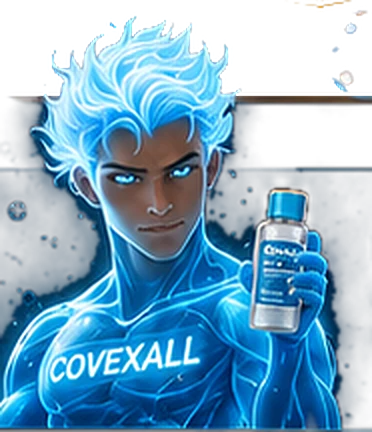
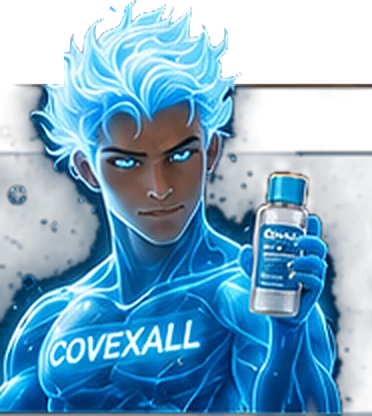
Centered sticky nav on every page, hero no longer zooms on wide screens, clean Cove cutout in newsletter bands, footer form stays on one row

diff --git a/site.css b/site.css
@@ -74,7 +74,7 @@ main { display: block; }
 .nav-wrap { position: sticky; top: 0; z-index: 50; }
 .nav { display: flex; align-items: center; gap: 24px; height: var(--nav-h); padding: 0 40px; background: linear-gradient(90deg, #050B14, #0B1622 55%, #0A1524); color: #fff; box-shadow: 0 10px 30px rgba(0,0,0,.5); }
 .logo { font-family: var(--font-head); font-weight: 900; font-size: 26px; letter-spacing: .05em; color: #fff; text-shadow: 0 0 16px rgba(34,211,238,.9), 0 0 4px rgba(255,255,255,.6); }
-.nav-links { display: flex; gap: 0; margin-left: 28px; flex: 1; justify-content: flex-start; }
+.nav-links { display: flex; gap: 0; margin-left: 0; flex: 1; justify-content: center; }
 .nav-links a { display: block; padding: 8px 11px; font-family: var(--font-head); font-weight: 700; font-size: 14px; color: #E6EEFF; position: relative; white-space: nowrap; }
 .nav-links a::after { content: ''; position: absolute; left: 11px; right: 11px; bottom: 0; height: 2.5px; border-radius: 2px; background: var(--cyan); transform: scaleX(0); transition: transform .25s; }
 .nav-links a:hover::after, .nav-links a.active::after { transform: scaleX(1); }
@@ -90,9 +90,7 @@ main { display: block; }
 .nav-toggle.active span:nth-child(1) { transform: translateY(7.5px) rotate(45deg); }
 .nav-toggle.active span:nth-child(2) { opacity: 0; }
 .nav-toggle.active span:nth-child(3) { transform: translateY(-7.5px) rotate(-45deg); }
-/* home: nav floats over the hero as a pill (same as Version A) */
-body.home .nav-wrap { position: absolute; left: 0; right: 0; top: 18px; z-index: 50; padding: 0 60px; }
-body.home .nav { border-radius: 999px; padding: 0 20px 0 30px; height: 60px; border: 1px solid var(--border); box-shadow: 0 14px 34px rgba(0,0,0,.6); }
+/* home: same sticky bar as every other page */
 
 /* =====================================================================
    PAGE HERO (inner pages) — mockup art cropped, text left
@@ -116,9 +114,11 @@ body.home .nav { border-radius: 999px; padding: 0 20px 0 30px; height: 60px; bor
 /* =====================================================================
    HOME
    ===================================================================== */
-.hero { position: relative; overflow: hidden; height: 540px; background: var(--bg-deep) url('assets/hero-scene.webp') center 60%/cover no-repeat; }
+.hero { position: relative; overflow: hidden; height: 540px; background: radial-gradient(60% 90% at 50% 50%, #0C1A2A 0%, var(--bg-deep) 100%); }
+.hero-bg { position: absolute; inset: 0; width: 100%; height: 100%; object-fit: cover; object-position: center 60%; z-index: 0; }
+@media (min-width: 1300px) { .hero-bg { object-fit: contain; object-position: center; -webkit-mask-image: linear-gradient(90deg, transparent 0, #000 10%, #000 90%, transparent 100%); mask-image: linear-gradient(90deg, transparent 0, #000 10%, #000 90%, transparent 100%); } }
 .hero::before { content: ''; position: absolute; inset: 0; background: linear-gradient(90deg, rgba(5,11,20,.85) 0%, rgba(5,11,20,.55) 32%, rgba(5,11,20,0) 55%); }
-.hero-copy { position: relative; z-index: 2; padding: 96px 0 0; max-width: 360px; }
+.hero-copy { position: relative; z-index: 2; padding: 70px 0 0; max-width: 360px; }
 .hero h1 { font-size: clamp(36px, 4.2vw, 52px); font-weight: 900; line-height: 1.02; letter-spacing: -.02em; color: #fff; text-shadow: 0 2px 18px rgba(5,11,20,.9); }
 .hero .lead { margin-top: 12px; font-size: 14px; color: #C9D9E2; max-width: 300px; text-shadow: 0 1px 10px rgba(5,11,20,.95); }
 .hero .hero-actions { margin-top: 16px; }
@@ -203,6 +203,7 @@ body.home .loved-photos .stars, body.home .loved-photos p, body.home .loved-phot
 .mini-form input::placeholder { color: var(--text-muted); }
 .mini-form button { width: 40px; height: 40px; border-radius: 50%; border: 0; background: var(--cove-cyan); color: #04121C; display: grid; place-items: center; }
 .mini-form button svg { width: 16px; height: 16px; }
+.mini-form input { grid-column: 1; grid-row: 1; } .mini-form button { grid-column: 2; grid-row: 1; }
 .mini-form .nl-status { grid-column: 1 / -1; }
 .footer-splash { position: absolute; right: 30px; bottom: 4px; height: 128px; width: auto; filter: drop-shadow(0 0 18px rgba(34,211,238,.35)); }
 .footer-bottom { display: flex; justify-content: space-between; align-items: center; flex-wrap: wrap; gap: 12px; padding: 12px 44px 18px; font-size: 12px; color: var(--text-muted); }
@@ -216,7 +217,7 @@ body.home .loved-photos .stars, body.home .loved-photos p, body.home .loved-phot
 .newsletter { padding: 10px 0 0; }
 .newsletter-inner { position: relative; display: grid; grid-template-columns: 170px 1fr 360px; align-items: center; gap: 20px; padding: 22px 30px 22px 10px; border-radius: 24px; overflow: hidden; background: linear-gradient(100deg, #0E1E30, #0B1622); border: 1px solid rgba(34,211,238,.5); box-shadow: 0 0 34px rgba(34,211,238,.12), inset 0 0 0 1px rgba(34,211,238,.08); min-height: 130px; }
 .newsletter-inner.dark { color: #fff; }
-.nl-cove { height: 150px; width: auto; justify-self: center; filter: drop-shadow(var(--glow)); }
+.nl-cove { height: 168px; width: auto; justify-self: center; align-self: end; margin-bottom: -30px; filter: drop-shadow(var(--glow)); }
 .nl-copy h2 { font-size: 24px; } .nl-copy h2 span { font-weight: 700; color: var(--navy); }
 .newsletter-inner.dark .nl-copy h2, .newsletter-inner.dark .nl-copy h2 span { color: #fff; }
 .nl-copy p { color: #B9CBD6; margin-top: 4px; font-size: 14px; }
@@ -226,6 +227,7 @@ body.home .loved-photos .stars, body.home .loved-photos p, body.home .loved-phot
 .nl-form .btn { height: 46px; }
 .nl-small { grid-column: 1 / -1; font-size: 11px; color: var(--muted); padding-left: 10px; }
 .newsletter-inner.dark .nl-small { color: var(--text-muted); }
+.nl-form input { grid-column: 1; grid-row: 1; } .nl-form .btn { grid-column: 2; grid-row: 1; }
 .nl-form .nl-status { grid-column: 1 / -1; padding-left: 10px; }
 
 /* =====================================================================
@@ -679,7 +681,6 @@ input::placeholder, textarea::placeholder { color: var(--text-muted); }
    ===================================================================== */
 @media (max-width: 1100px) {
   .nav { padding: 0 20px; } .nav-links { margin-left: 20px; }
-  body.home .nav-wrap { padding: 0 20px; }
   
   .steps, .pgrid, .claim-cards, .edu-topics, .values, .photo-strip, .loved-photos, .quote-cards { grid-template-columns: repeat(3, 1fr); }
   .step:not(:last-child)::after { display: none; }
@@ -701,7 +702,6 @@ input::placeholder, textarea::placeholder { color: var(--text-muted); }
   .nav-links.open { opacity: 1; transform: none; pointer-events: auto; }
   .nav-links a { padding: 10px 14px; font-size: 16px; }
   .nav-toggle { display: flex; }
-  body.home .nav-wrap { position: sticky; top: 0; padding: 0; } body.home .nav { border-radius: 0; height: var(--nav-h); border: 0; }
   
   .hero { height: auto; padding: 30px 0 60px; background-position: 70% 30%; }
   .hero::before { background: linear-gradient(180deg, rgba(5,11,20,.9) 0%, rgba(5,11,20,.75) 60%, rgba(5,11,20,.5) 100%); }

diff --git a/src/pages/pocket-hand-sanitizer.html b/src/pages/pocket-hand-sanitizer.html
@@ -126,7 +126,7 @@ nav: products
 
 <section class="newsletter">
   <div class="container newsletter-inner dark reveal">
-    <img class="nl-cove" src="assets/mk/pocket-nl-cove.webp" alt="" aria-hidden="true">
+    <img class="nl-cove" src="assets/mk/cove-bottle.webp" alt="" aria-hidden="true">
     <div class="nl-copy"><h2>Stay Protected. <span>Stay in the Loop.</span></h2><p>Get tips, new product updates, and special offers—straight to your inbox.</p></div>
     <form class="nl-form" data-form="newsletter">
       <label class="sr-only" for="nl-email">Email address</label>

diff --git a/src/pages/proof.html b/src/pages/proof.html
@@ -101,7 +101,7 @@ nav: proof
 
 <section class="newsletter">
   <div class="container newsletter-inner dark reveal">
-    <img class="nl-cove" src="assets/mk/nl-cove-wave.webp" alt="" aria-hidden="true">
+    <img class="nl-cove" src="assets/mk/cove-bottle.webp" alt="" aria-hidden="true">
     <div class="nl-copy"><h2>Stay protected. <span>Stay in the loop.</span></h2><p>Get tips, new product updates, and special offers—straight to your inbox.</p></div>
     <form class="nl-form" data-form="newsletter">
       <label class="sr-only" for="nl-email">Email address</label>

diff --git a/pocket-hand-sanitizer.html b/pocket-hand-sanitizer.html
@@ -168,7 +168,7 @@
 
 <section class="newsletter">
   <div class="container newsletter-inner dark reveal">
-    <img class="nl-cove" src="assets/mk/pocket-nl-cove.webp" alt="" aria-hidden="true">
+    <img class="nl-cove" src="assets/mk/cove-bottle.webp" alt="" aria-hidden="true">
     <div class="nl-copy"><h2>Stay Protected. <span>Stay in the Loop.</span></h2><p>Get tips, new product updates, and special offers—straight to your inbox.</p></div>
     <form class="nl-form" data-form="newsletter">
       <label class="sr-only" for="nl-email">Email address</label>

diff --git a/proof.html b/proof.html
@@ -144,7 +144,7 @@
 
 <section class="newsletter">
   <div class="container newsletter-inner dark reveal">
-    <img class="nl-cove" src="assets/mk/nl-cove-wave.webp" alt="" aria-hidden="true">
+    <img class="nl-cove" src="assets/mk/cove-bottle.webp" alt="" aria-hidden="true">
     <div class="nl-copy"><h2>Stay protected. <span>Stay in the loop.</span></h2><p>Get tips, new product updates, and special offers—straight to your inbox.</p></div>
     <form class="nl-form" data-form="newsletter">
       <label class="sr-only" for="nl-email">Email address</label>

diff --git a/products.html b/products.html
@@ -224,7 +224,7 @@
 
 <section class="newsletter">
   <div class="container newsletter-inner reveal">
-    <img class="nl-cove" src="assets/mk/nl-cove.webp" alt="" aria-hidden="true">
+    <img class="nl-cove" src="assets/mk/cove-bottle.webp" alt="" aria-hidden="true">
     <div class="nl-copy">
       <h2>Stay Protected. <span>Stay in the Loop.</span></h2>
       <p>Get tips, new product updates, and special offers—straight to your inbox.</p>

diff --git a/src/partials/newsletter.html b/src/partials/newsletter.html
@@ -1,6 +1,6 @@
 <section class="newsletter">
   <div class="container newsletter-inner reveal">
-    <img class="nl-cove" src="assets/mk/nl-cove.webp" alt="" aria-hidden="true">
+    <img class="nl-cove" src="assets/mk/cove-bottle.webp" alt="" aria-hidden="true">
     <div class="nl-copy">
       <h2>Stay Protected. <span>Stay in the Loop.</span></h2>
       <p>Get tips, new product updates, and special offers—straight to your inbox.</p>

diff --git a/src/pages/index.html b/src/pages/index.html
@@ -5,6 +5,7 @@ nav: home
 body: home
 -->
 <section class="hero">
+  <img class="hero-bg" src="assets/hero-scene.webp" alt="" aria-hidden="true">
   <div class="container">
     <div class="hero-copy reveal">
       <h1>Lasting protection for <span class="blue">life's big adventures.</span></h1>

diff --git a/index.html b/index.html
@@ -46,6 +46,7 @@
 <main id="top">
 
 <section class="hero">
+  <img class="hero-bg" src="assets/hero-scene.webp" alt="" aria-hidden="true">
   <div class="container">
     <div class="hero-copy reveal">
       <h1>Lasting protection for <span class="blue">life's big adventures.</span></h1>

diff --git a/tools/crop_mockups.py b/tools/crop_mockups.py
@@ -95,7 +95,7 @@ SPEC = {
  'pocket sanitizer.png': [                           # 1023 x 1537
    ('pocket-main', (115,105,625,500), 'photo'),
    ('pocket-t1', (40,110,100,195), 'photo'), ('pocket-t2', (40,210,100,295), 'photo'), ('pocket-t3', (40,305,100,392), 'photo'), ('pocket-t4', (40,400,100,485), 'photo'),
-   ('cove-bottle', (116,452,302,668), 'dark', [(116,452,302,500,'lum')]),
+   ('cove-bottle', (116,452,302,668), 'dark', [(116,452,302,502,'lum'),(116,452,148,502),(252,452,302,502)]),
    ('little-viro', (592,528,662,602), 'dark'), ('little-4h', (722,522,798,608), 'dark'), ('little-bac', (886,522,958,602), 'dark'),
    ('ps-1', (48,712,132,778), 'dark'), ('ps-2', (168,712,252,778), 'dark'), ('ps-3', (288,712,372,778), 'dark'), ('ps-4', (408,712,492,778), 'dark'),
    ('pw-1', (528,712,588,778), 'dark'), ('pw-2', (628,712,692,778), 'dark'), ('pw-3', (722,712,788,778), 'dark'), ('pw-4', (822,712,882,778), 'dark'), ('pw-5', (912,712,978,778), 'dark'),
